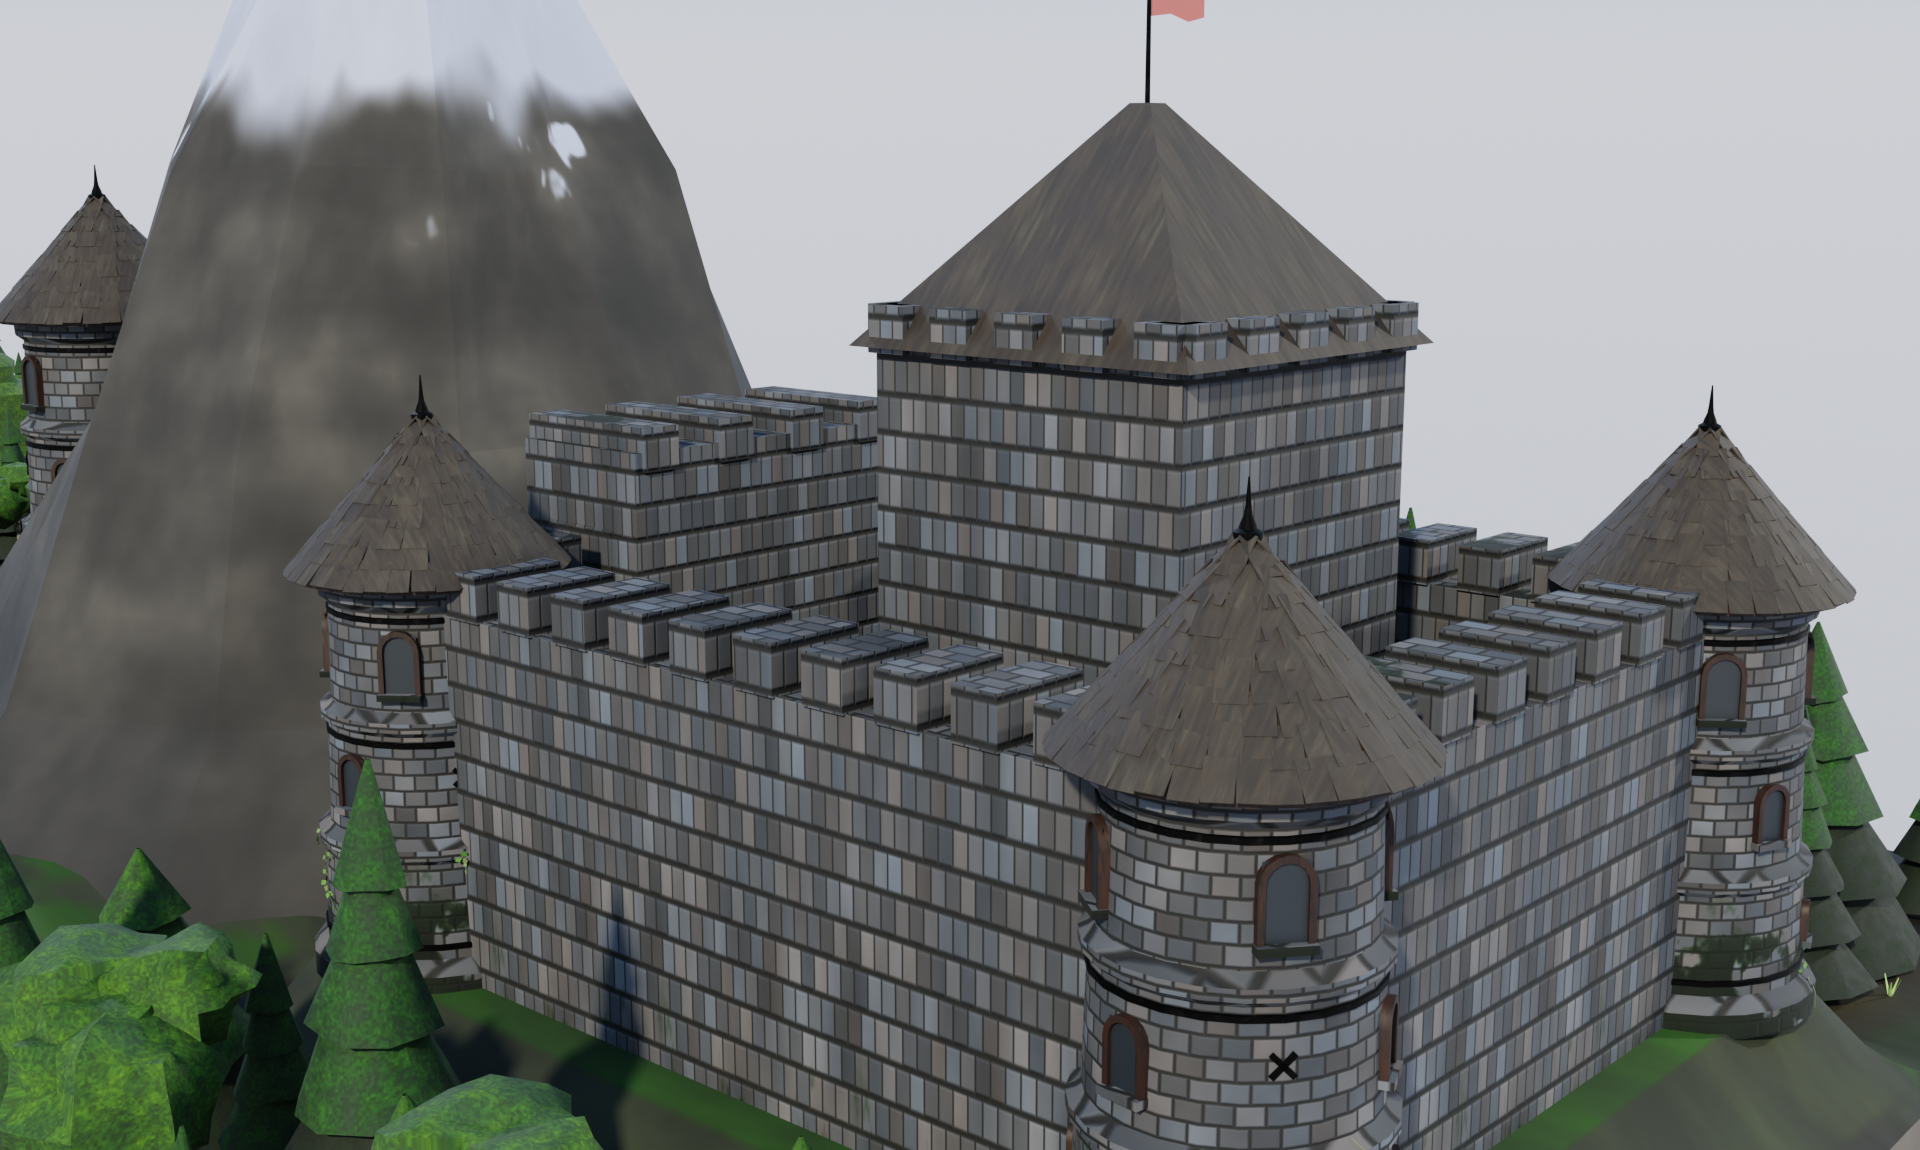
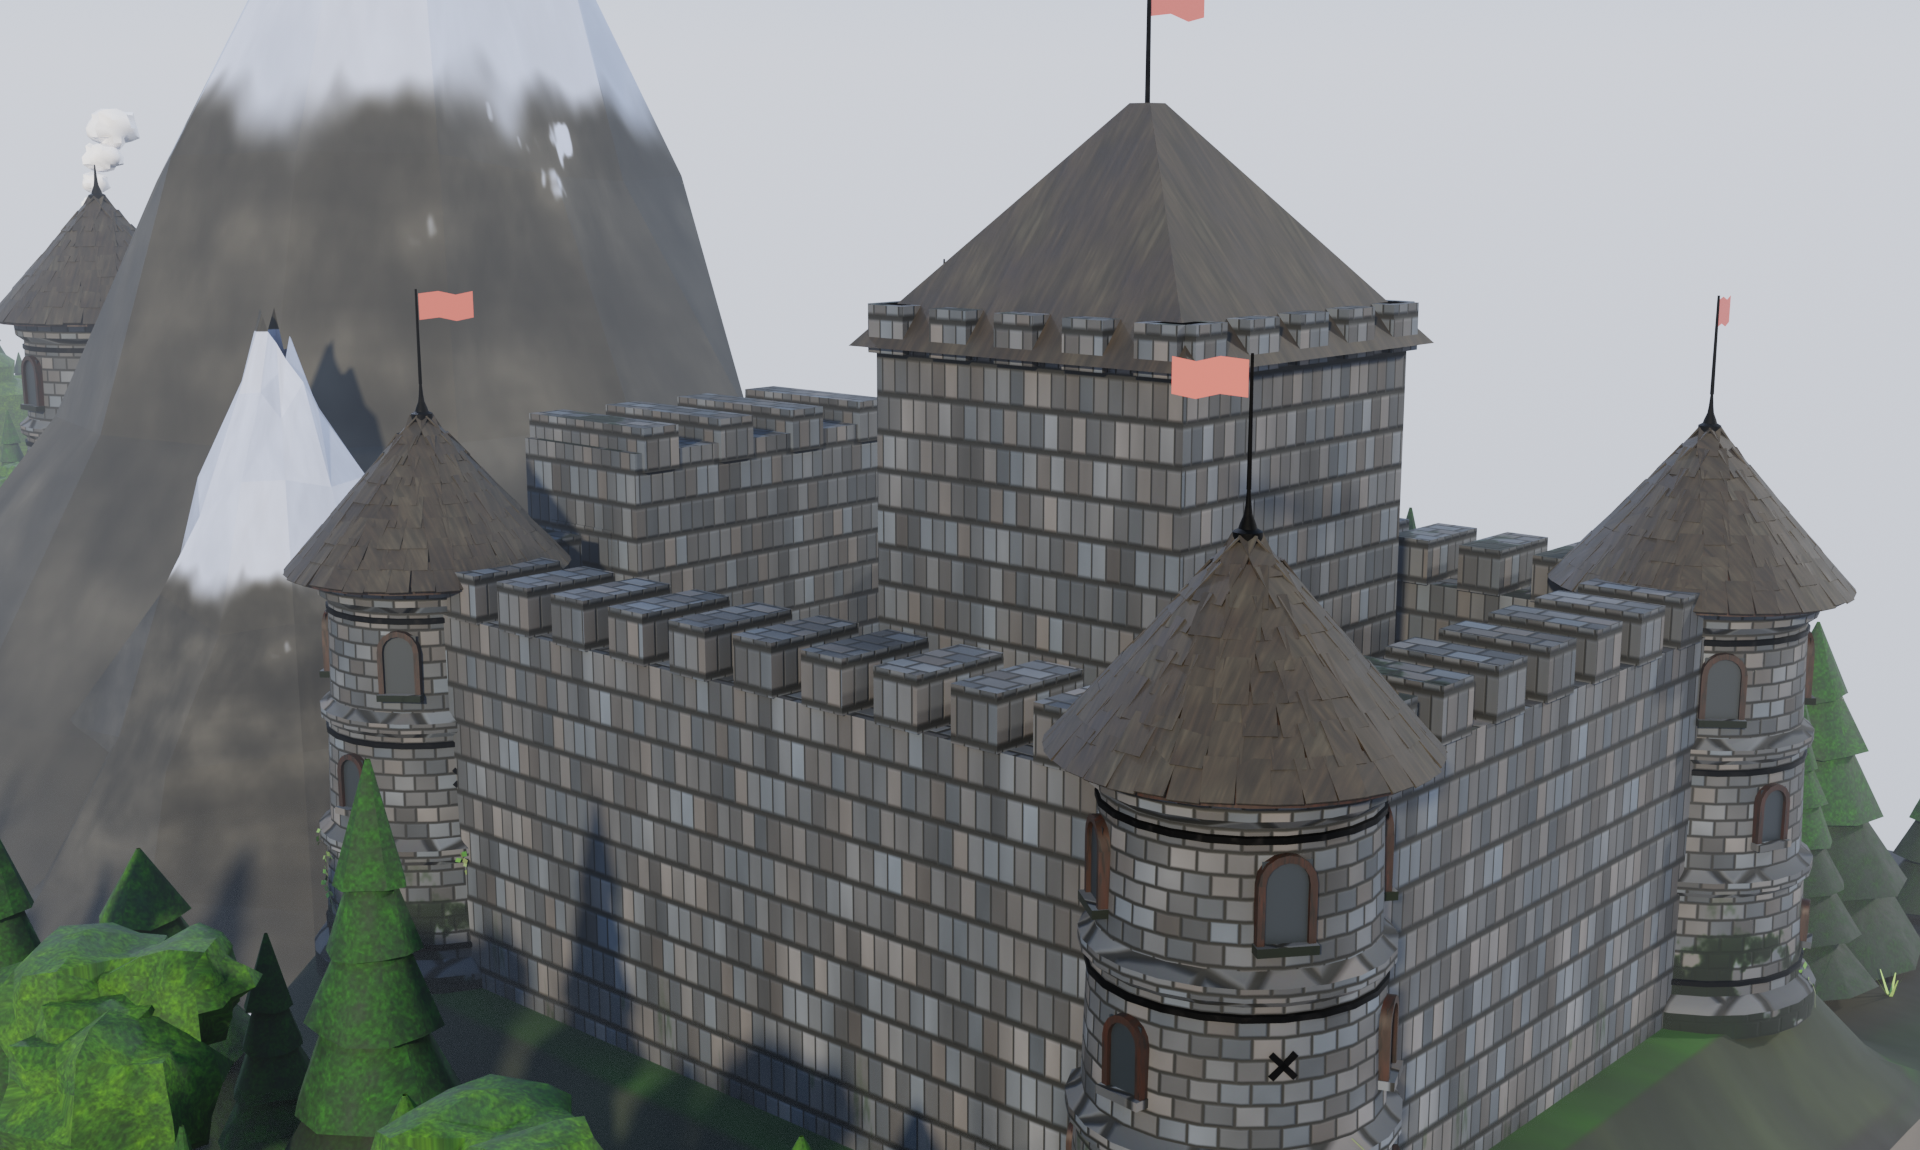
Final renders; keep the fog slab out of the grazing aerial view
The aerial camera looks through the whole ground-fog slab at a grazing
angle, which washed the diorama gray — the render loop now disables the
volume and softens the mist pass for that one camera.

Claude-Session: https://claude.ai/code/session_015enviyB9zejisQYhnw8Zjk

diff --git a/nordic-watchtower/generate_forest_scene.py b/nordic-watchtower/generate_forest_scene.py
@@ -1574,11 +1574,19 @@ if os.environ.get("WT_SKIP_RENDER") != "1":
                                (cam3, "forest_pond.png", (1920, 1150)),
                                (cam4, "forest_castle.png", (1920, 1150)),
                                (cam2, "forest_aerial.png", (1920, 1280))):
+        # the aerial looks through the whole fog slab at a grazing angle,
+        # which would wash everything out — disable fog and soften mist
+        is_aerial = camera is cam2
+        FOG_OB.hide_render = is_aerial
+        world.mist_settings.start = 60.0 if is_aerial else 26.0
+        world.mist_settings.depth = 220.0 if is_aerial else 140.0
         scene.camera = camera
         scene.render.resolution_x, scene.render.resolution_y = res
         scene.render.filepath = os.path.join(RENDER_DIR, fname)
         bpy.ops.render.render(write_still=True)
         print(f"Rendered {scene.render.filepath}")
+    FOG_OB.hide_render = False
+    world.mist_settings.start, world.mist_settings.depth = 26.0, 140.0
     scene.camera = cam
 
 print("Done.")
